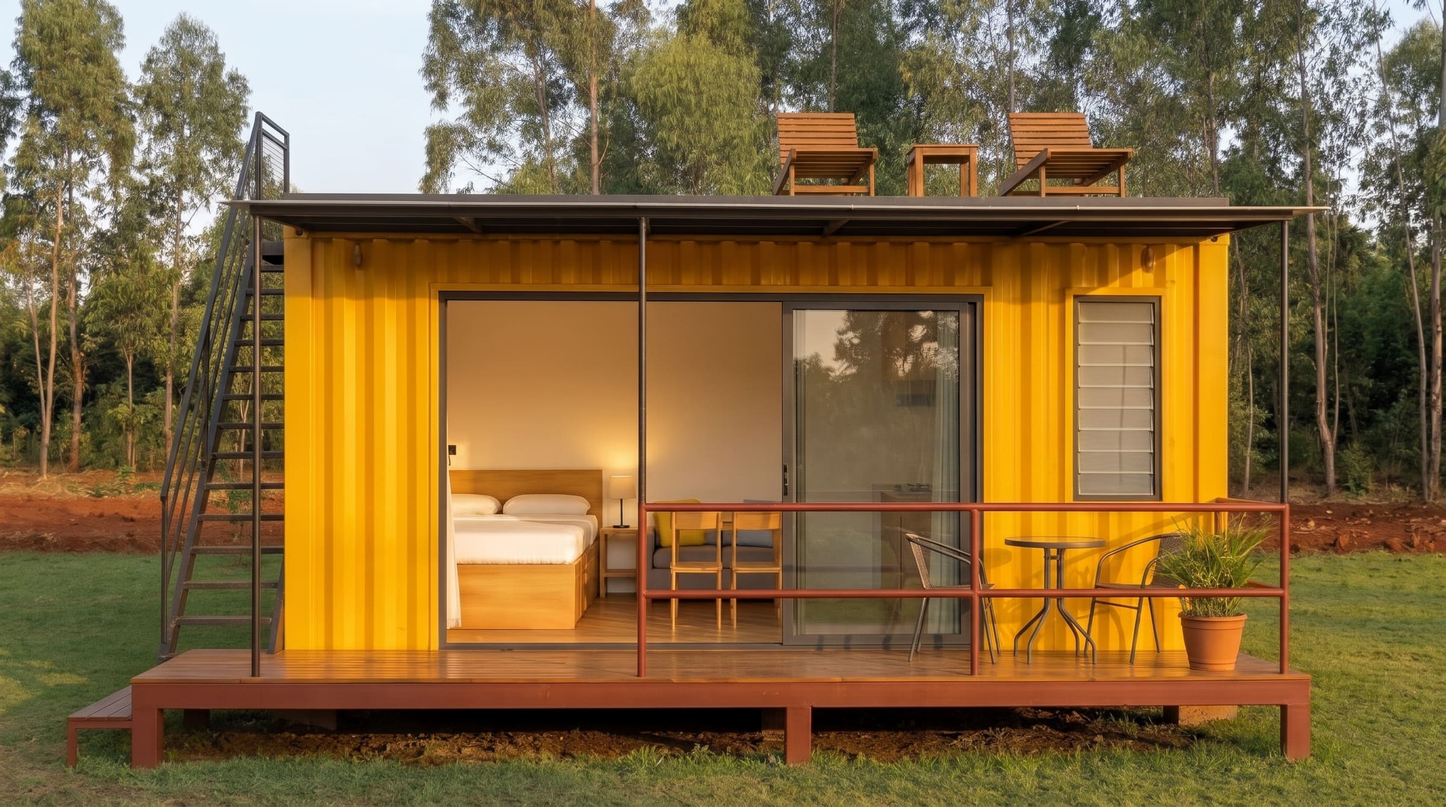
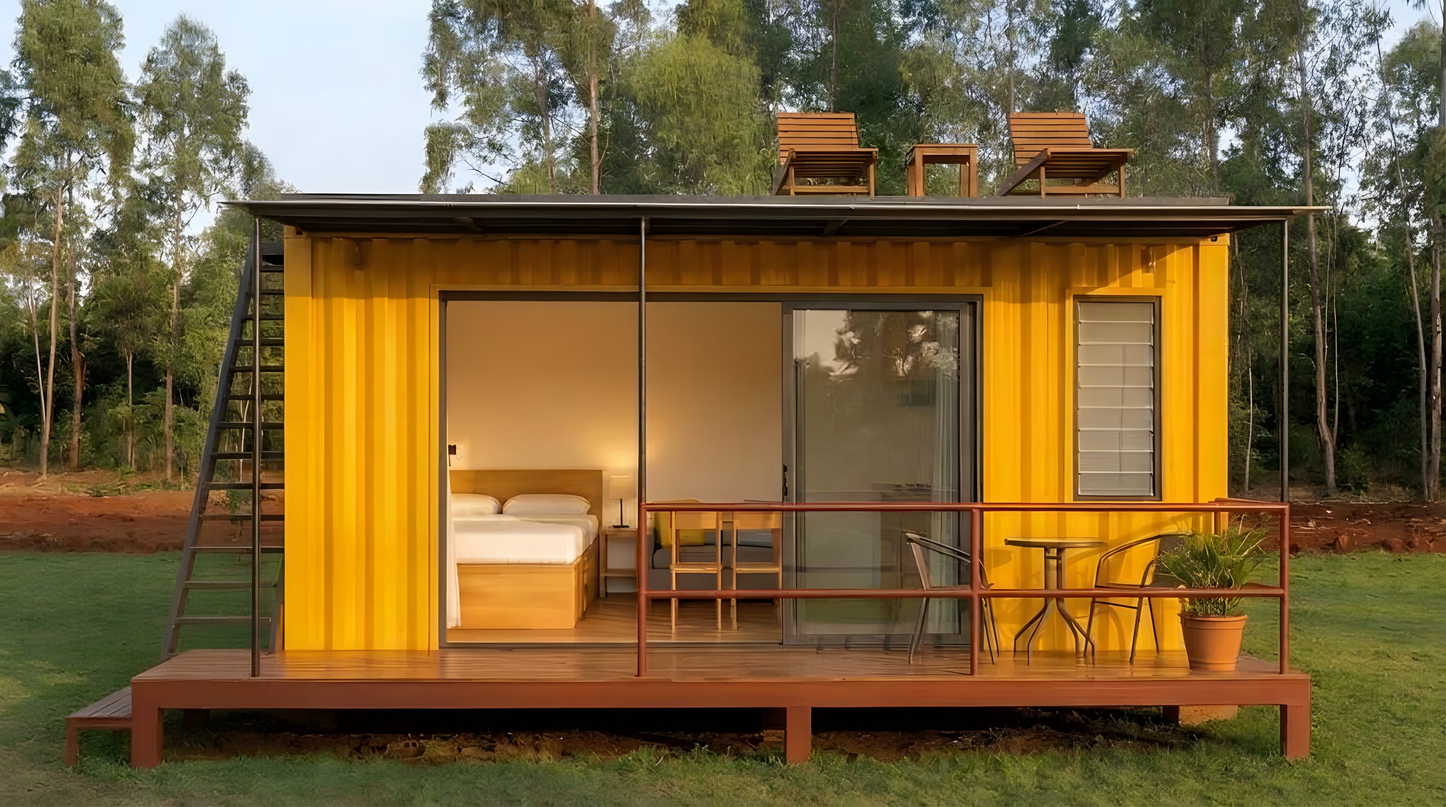
feat(studio): hero is the shared Gemini render, upscaled
The founder's pick from a Gemini share link: a plain steel ladder up to
the roof chairs, the slider half open. The share serves 1376 px and a
full-size download comes out as a different image, so the shared one is
upscaled 4x with Real-ESRGAN (x4plus) and set at 2400 wide, 516 kB.
Still labelled a concept render (D-018).

Claude-Session: https://claude.ai/code/session_01KUWWUBfSNDQyavvXAD1cc3

diff --git a/src/app/en/studio/page.tsx b/src/app/en/studio/page.tsx
@@ -251,12 +251,12 @@ export default function StudioPage() {
   return (
     <main className="w-full flex-1">
       {/* First screen: a photoreal concept render of the finished studio (D-018), made in Gemini (2026-10-27):
-          the yellow container on its red deck in the eucalyptus, the slider half open on the bed, the stair up to
-          the lounge chairs on the roof. */}
+          the yellow container on its red deck in the eucalyptus, the slider half open on the bed, a steel ladder up to
+          the lounge chairs on the roof. Shared from Gemini at 1376 px and upscaled 4x with Real-ESRGAN (x4plus). */}
       <section className="relative h-svh min-h-[520px] w-full overflow-hidden bg-[#a9c8df]">
         {/* eslint-disable-next-line @next/next/no-img-element */}
         <img src={`${D}/render/studio-hero.jpg`} width={2400} height={1340} fetchPriority="high"
-          alt="A yellow container studio at golden hour under a dark roof canopy: the sliding glass wall half open on a bed, a sofa and two chairs, a red-railed timber deck with a bistro table and a potted plant, a steel stair up the side to two lounge chairs on the roof, and eucalyptus behind."
+          alt="A yellow container studio at golden hour under a dark roof canopy: the sliding glass wall half open on a bed, a sofa and two chairs, a red-railed timber deck with a bistro table and a potted plant, a steel ladder up the side to two lounge chairs on the roof, and eucalyptus behind."
           className="absolute inset-0 size-full object-cover object-[50%_55%]" />
         {/* D-018: an AI image is always labelled as a concept render. */}
         <span className="absolute end-4 bottom-4 z-10 rounded-full bg-black/40 px-2.5 py-1 text-xs text-white/85 backdrop-blur md:end-10">
